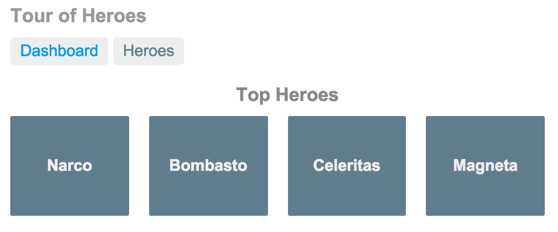
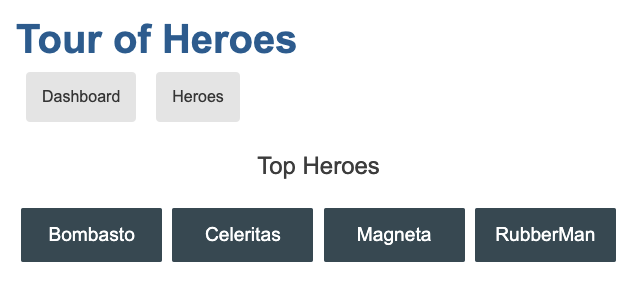
docs: remove Narco from hero list in code, text, and images (#46008)
Fixes issue #45769

Removes the malevolent comic book character, "Narco," from the list of heroes. This change removes the reference from the code, text and screenshots used in the documentation and makes other minor edits as necessary.

PR Close #46008

diff --git a/aio/content/examples/toh-pt6/e2e/src/app.e2e-spec.ts b/aio/content/examples/toh-pt6/e2e/src/app.e2e-spec.ts
@@ -3,7 +3,7 @@ import { browser, element, by, ElementFinder, ElementArrayFinder } from 'protrac
 const expectedH1 = 'Tour of Heroes';
 const expectedTitle = `${expectedH1}`;
 const targetHero = { id: 15, name: 'Magneta' };
-const targetHeroDashboardIndex = 3;
+const targetHeroDashboardIndex = 2;
 const nameSuffix = 'X';
 const newHeroName = targetHero.name + nameSuffix;
 
@@ -132,7 +132,7 @@ describe('Tutorial part 6', () => {
       await getPageElts().appHeroesHref.click();
       const page = getPageElts();
       expect(await page.appHeroes.isPresent()).toBeTruthy();
-      expect(await page.allHeroes.count()).toEqual(10, 'number of heroes');
+      expect(await page.allHeroes.count()).toEqual(9, 'number of heroes');
     });
 
     it('can route to hero details', async () => {
@@ -161,7 +161,7 @@ describe('Tutorial part 6', () => {
 
       const page = getPageElts();
       expect(await page.appHeroes.isPresent()).toBeTruthy();
-      expect(await page.allHeroes.count()).toEqual(9, 'number of heroes');
+      expect(await page.allHeroes.count()).toEqual(8, 'number of heroes');
       const heroesAfter = await toHeroArray(page.allHeroes);
       // console.log(await Hero.fromLi(page.allHeroes[0]));
       const expectedHeroes =  heroesBefore.filter(h => h.name !== newHeroName);
@@ -228,7 +228,7 @@ describe('Tutorial part 6', () => {
       expect(await getPageElts().searchResults.count()).toBe(2);
     });
 
-    it(`continues search with 'e' and gets ${targetHero.name}`, async () => {
+    it(`continues search with 'n' and gets ${targetHero.name}`, async () => {
       await getPageElts().searchBox.sendKeys('n');
       await browser.sleep(1000);
       const page = getPageElts();

diff --git a/aio/content/examples/universal/e2e/src/app.e2e-spec.ts b/aio/content/examples/universal/e2e/src/app.e2e-spec.ts
@@ -37,7 +37,7 @@ describe('Universal', () => {
   const expectedH1 = 'Tour of Heroes';
   const expectedTitle = `${expectedH1}`;
   const targetHero = { id: 15, name: 'Magneta' };
-  const targetHeroDashboardIndex = 3;
+  const targetHeroDashboardIndex = 2;
   const nameSuffix = 'X';
   const newHeroName = targetHero.name + nameSuffix;
 
@@ -111,7 +111,7 @@ describe('Universal', () => {
       await getPageElts().appHeroesHref.click();
       const page = getPageElts();
       expect(await page.appHeroes.isPresent()).toBeTruthy();
-      expect(await page.allHeroes.count()).toEqual(10, 'number of heroes');
+      expect(await page.allHeroes.count()).toEqual(9, 'number of heroes');
     });
 
     it('can route to hero details', async () => {
@@ -140,7 +140,7 @@ describe('Universal', () => {
 
       const page = getPageElts();
       expect(await page.appHeroes.isPresent()).toBeTruthy();
-      expect(await page.allHeroes.count()).toEqual(9, 'number of heroes');
+      expect(await page.allHeroes.count()).toEqual(8, 'number of heroes');
       const heroesAfter = await toHeroArray(page.allHeroes);
       // console.log(await Hero.fromLi(page.allHeroes[0]));
       const expectedHeroes =  heroesBefore.filter(h => h.name !== newHeroName);
@@ -206,7 +206,7 @@ describe('Universal', () => {
       expect(await getPageElts().searchResults.count()).toBe(2);
     });
 
-    it(`continues search with 'e' and gets ${targetHero.name}`, async () => {
+    it(`continues search with 'n' and gets ${targetHero.name}`, async () => {
       await getPageElts().searchBox.sendKeys('n');
       await browser.sleep(1000);
       const page = getPageElts();

diff --git a/aio/content/examples/toh-pt5/e2e/src/app.e2e-spec.ts b/aio/content/examples/toh-pt5/e2e/src/app.e2e-spec.ts
@@ -2,7 +2,7 @@ import { browser, element, by, ElementFinder } from 'protractor';
 
 const expectedH1 = 'Tour of Heroes';
 const expectedTitle = `${expectedH1}`;
-const targetHero = { id: 15, name: 'Magneta' };
+const targetHero = { id: 16, name: 'RubberMan' };
 const targetHeroDashboardIndex = 3;
 const nameSuffix = 'X';
 const newHeroName = targetHero.name + nameSuffix;
@@ -106,7 +106,7 @@ describe('Tutorial part 5', () => {
       await getPageElts().appHeroesHref.click();
       const page = getPageElts();
       expect(await page.appHeroes.isPresent()).toBeTruthy();
-      expect(await page.allHeroes.count()).toEqual(10, 'number of heroes');
+      expect(await page.allHeroes.count()).toEqual(9, 'number of heroes');
     });
 
     it('can route to hero details', async () => {

diff --git a/aio/content/examples/structural-directives/e2e/src/app.e2e-spec.ts b/aio/content/examples/structural-directives/e2e/src/app.e2e-spec.ts
@@ -6,12 +6,12 @@ describe('Structural Directives', () => {
 
   it('first div should show hero name with *ngIf', async () => {
     const allDivs = element.all(by.tagName('div'));
-    expect(await allDivs.get(0).getText()).toEqual('Dr Nice');
+    expect(await allDivs.get(0).getText()).toEqual('Dr. Nice');
   });
 
   it('first li should show hero name with *ngFor', async () => {
     const allLis = element.all(by.tagName('li'));
-    expect(await allLis.get(0).getText()).toEqual('Dr Nice');
+    expect(await allLis.get(0).getText()).toEqual('Dr. Nice');
   });
 
   it('ngSwitch have two <happy-hero> instances', async () => {

diff --git a/aio/content/examples/testing/src/app/in-memory-data.service.ts b/aio/content/examples/testing/src/app/in-memory-data.service.ts
@@ -8,14 +8,13 @@ const maxQuotes = Infinity; // 0;
 export class InMemoryDataService implements InMemoryDbService {
   createDb() {
     const heroes = [
-      { id: 11, name: 'Dr Nice' },
-      { id: 12, name: 'Narco' },
+      { id: 12, name: 'Dr. Nice' },
       { id: 13, name: 'Bombasto' },
       { id: 14, name: 'Celeritas' },
       { id: 15, name: 'Magneta' },
       { id: 16, name: 'RubberMan' },
       { id: 17, name: 'Dynama' },
-      { id: 18, name: 'Dr IQ' },
+      { id: 18, name: 'Dr. IQ' },
       { id: 19, name: 'Magma' },
       { id: 20, name: 'Tornado' }
     ];

diff --git a/aio/content/examples/toh-pt6/src/app/in-memory-data.service.ts b/aio/content/examples/toh-pt6/src/app/in-memory-data.service.ts
@@ -9,14 +9,13 @@ import { Hero } from './hero';
 export class InMemoryDataService implements InMemoryDbService {
   createDb() {
     const heroes = [
-      { id: 11, name: 'Dr Nice' },
-      { id: 12, name: 'Narco' },
+      { id: 12, name: 'Dr. Nice' },
       { id: 13, name: 'Bombasto' },
       { id: 14, name: 'Celeritas' },
       { id: 15, name: 'Magneta' },
       { id: 16, name: 'RubberMan' },
       { id: 17, name: 'Dynama' },
-      { id: 18, name: 'Dr IQ' },
+      { id: 18, name: 'Dr. IQ' },
       { id: 19, name: 'Magma' },
       { id: 20, name: 'Tornado' }
     ];

diff --git a/aio/content/examples/universal/src/app/in-memory-data.service.ts b/aio/content/examples/universal/src/app/in-memory-data.service.ts
@@ -8,14 +8,13 @@ import { Hero } from './hero';
 export class InMemoryDataService implements InMemoryDbService {
   createDb() {
     const heroes = [
-      { id: 11, name: 'Dr Nice' },
-      { id: 12, name: 'Narco' },
+      { id: 12, name: 'Dr. Nice' },
       { id: 13, name: 'Bombasto' },
       { id: 14, name: 'Celeritas' },
       { id: 15, name: 'Magneta' },
       { id: 16, name: 'RubberMan' },
       { id: 17, name: 'Dynama' },
-      { id: 18, name: 'Dr IQ' },
+      { id: 18, name: 'Dr. IQ' },
       { id: 19, name: 'Magma' },
       { id: 20, name: 'Tornado' }
     ];

diff --git a/aio/content/examples/http/src/app/in-memory-data.service.ts b/aio/content/examples/http/src/app/in-memory-data.service.ts
@@ -3,10 +3,10 @@ import { InMemoryDbService } from 'angular-in-memory-web-api';
 export class InMemoryDataService implements InMemoryDbService {
   createDb() {
     const heroes = [
-      { id: 11, name: 'Dr Nice' },
-      { id: 12, name: 'Narco' },
+      { id: 12, name: 'Dr. Nice' },
       { id: 13, name: 'Bombasto' },
       { id: 14, name: 'Celeritas' },
+      { id: 15, name: 'Magneta' },
     ];
     const query = [
       { name: '@angular/core', version: '20.1.0', description: 'angular core package' },

diff --git a/aio/content/examples/animations/src/app/mock-heroes.ts b/aio/content/examples/animations/src/app/mock-heroes.ts
@@ -2,14 +2,13 @@
 import { Hero } from './hero';
 
 export const HEROES: Hero[] = [
-  { id: 11, name: 'Dr Nice' },
-  { id: 12, name: 'Narco' },
+  { id: 12, name: 'Dr. Nice' },
   { id: 13, name: 'Bombasto' },
   { id: 14, name: 'Celeritas' },
   { id: 15, name: 'Magneta' },
   { id: 16, name: 'RubberMan' },
   { id: 17, name: 'Dynama' },
-  { id: 18, name: 'Dr IQ' },
+  { id: 18, name: 'Dr. IQ' },
   { id: 19, name: 'Magma' },
   { id: 20, name: 'Tornado' }
 ];

diff --git a/aio/content/examples/toh-pt2/src/app/mock-heroes.ts b/aio/content/examples/toh-pt2/src/app/mock-heroes.ts
@@ -1,14 +1,13 @@
 import { Hero } from './hero';
 
 export const HEROES: Hero[] = [
-  { id: 11, name: 'Dr Nice' },
-  { id: 12, name: 'Narco' },
+  { id: 12, name: 'Dr. Nice' },
   { id: 13, name: 'Bombasto' },
   { id: 14, name: 'Celeritas' },
   { id: 15, name: 'Magneta' },
   { id: 16, name: 'RubberMan' },
   { id: 17, name: 'Dynama' },
-  { id: 18, name: 'Dr IQ' },
+  { id: 18, name: 'Dr. IQ' },
   { id: 19, name: 'Magma' },
   { id: 20, name: 'Tornado' }
 ];

diff --git a/aio/content/examples/toh-pt3/src/app/mock-heroes.ts b/aio/content/examples/toh-pt3/src/app/mock-heroes.ts
@@ -1,14 +1,13 @@
 import { Hero } from './hero';
 
 export const HEROES: Hero[] = [
-  { id: 11, name: 'Dr Nice' },
-  { id: 12, name: 'Narco' },
+  { id: 12, name: 'Dr. Nice' },
   { id: 13, name: 'Bombasto' },
   { id: 14, name: 'Celeritas' },
   { id: 15, name: 'Magneta' },
   { id: 16, name: 'RubberMan' },
   { id: 17, name: 'Dynama' },
-  { id: 18, name: 'Dr IQ' },
+  { id: 18, name: 'Dr. IQ' },
   { id: 19, name: 'Magma' },
   { id: 20, name: 'Tornado' }
 ];

diff --git a/aio/content/examples/toh-pt4/src/app/mock-heroes.ts b/aio/content/examples/toh-pt4/src/app/mock-heroes.ts
@@ -2,14 +2,13 @@
 import { Hero } from './hero';
 
 export const HEROES: Hero[] = [
-  { id: 11, name: 'Dr Nice' },
-  { id: 12, name: 'Narco' },
+  { id: 12, name: 'Dr. Nice' },
   { id: 13, name: 'Bombasto' },
   { id: 14, name: 'Celeritas' },
   { id: 15, name: 'Magneta' },
   { id: 16, name: 'RubberMan' },
   { id: 17, name: 'Dynama' },
-  { id: 18, name: 'Dr IQ' },
+  { id: 18, name: 'Dr. IQ' },
   { id: 19, name: 'Magma' },
   { id: 20, name: 'Tornado' }
 ];
